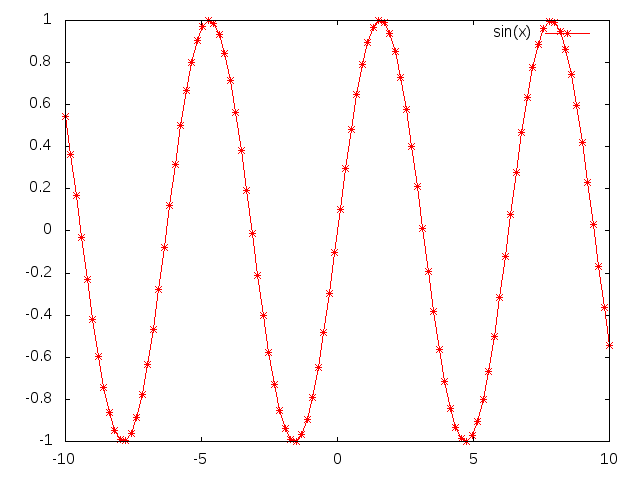
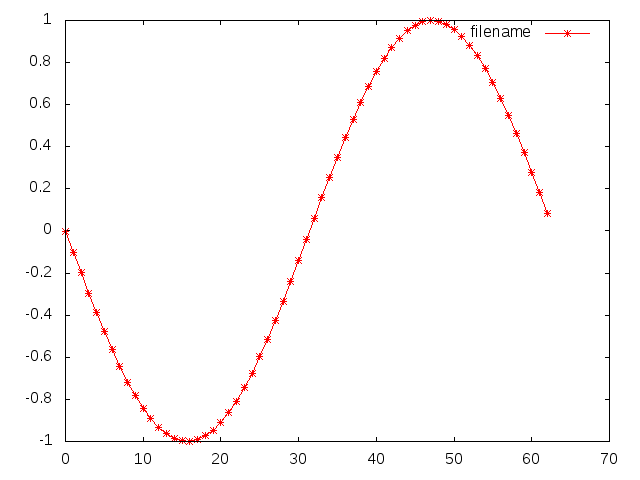
First two sineplottings

diff --git a/index.php b/index.php
@@ -6,6 +6,7 @@ if (!isset($_SESSION)) {
     }
 }
 require_once 'logic.php';
+require 'sin.php';
 header("Content-type: text/html\n\n");
 ?>
 
@@ -19,12 +20,21 @@ header("Content-type: text/html\n\n");
         <h1>
             Calculator!
         </h1>
+        <p>Basic operands +,-,*,/ are supported. <br>
+            Equations in the form 'number-operand-number+operand-number....' <br>
+            No actual calculation order is supported ergo the operations are count from left to right. <br>
+            No error checking for the input. You are on you own.</p>
         <form method="GET" name="form">
             <input type="text" id="arg1">
             <input type="button" id="go" value="Submit"></input>
         </form>
-        <p id="test2"><p>
+        <input type="button" id="sin" value="sin(x) (Serverside)"/>
+        <input type="button" id="sinloc" value="sin(x) (Clientside)"/><br>
+        <input type="button" id="sinmixed" value="sin(x) (Mixed)"/><br>
+        <img src="" id="img">
+        <canvas id="myCanvas" width="360" height="360" style="border:1px solid #d3d3d3;" hidden="true"></canvas>
         <p id="test"><p>
+
             <script>
                 $("#go").click(function () {
                     $("#test").text($("#arg1").val());
@@ -38,7 +48,9 @@ header("Content-type: text/html\n\n");
                     });
                     while (stack.length > 1) {
                         console.log(stack);
-                        var arg1 = stack.pop(); var op = stack.pop(); var arg2 = stack.pop();
+                        var arg1 = stack.pop();
+                        var op = stack.pop();
+                        var arg2 = stack.pop();
                         $.ajax({
                             type: "GET",
                             async: false,
@@ -50,7 +62,7 @@ header("Content-type: text/html\n\n");
                             complete: function (response) {
                                 stack.push(response.responseText);
                                 $('#test').html(response.responseText);
-                                $('#history').append("" + arg1 + " " + op + " " + arg2 + "=" +  response.responseText + "<br>");
+                                $('#history').append("" + arg1 + " " + op + " " + arg2 + "=" + response.responseText + "<br>");
                             },
                             error: function () {
                                 $('#test').html('Bummer: there was an error!');
@@ -60,6 +72,73 @@ header("Content-type: text/html\n\n");
                 });
             </script>
 
+            <script>
+                $("#sin").click(function () {
+                    $.ajax({
+                        type: "GET",
+                        async: false,
+                        url: 'sin.php',
+                        data: {sin: 'set'},
+                        complete: function (response) {
+                            $("#img").attr("src", "output.png");
+                        },
+                        error: function () {
+                            $('#test').html('Bummer: there was an error!');
+                        }
+
+                    })
+                });
+            </script>
+
+            <script>
+                $("#sinmixed").click(function () {
+                    $("#myCanvas").attr('hidden', false);
+                    var canvas = document.getElementById("myCanvas");
+                    var ctx = canvas.getContext("2d");
+                    ctx.moveTo(0, 180);
+                    ctx.lineTo(360, 180);
+                    ctx.moveTo(180, 0);
+                    ctx.lineTo(180, 360);
+                    ctx.stroke();
+
+                    var x = 0, y = 180;
+                    var mover = -Math.PI;
+                    while (mover <= Math.PI) {
+                        ctx.moveTo(x, y);
+                        y = 180 - Math.sin(mover) * 120;
+                        x += 5.7;
+                        ctx.lineTo(x, y);
+                        ctx.stroke();
+                        mover += 0.1;
+                    }
+                    ;
+                });
+            </script>
+
+            <script>
+                $("#sinmixed").click(function () {
+                    $("#myCanvas").attr('hidden', false);
+                    var canvas = document.getElementById("myCanvas");
+                    var ctx = canvas.getContext("2d");
+                    ctx.moveTo(0, 180);
+                    ctx.lineTo(360, 180);
+                    ctx.moveTo(180, 0);
+                    ctx.lineTo(180, 360);
+                    ctx.stroke();
+
+                    var x = 0, y = 180;
+                    var mover = -Math.PI;
+                    while (mover <= Math.PI) {
+                        ctx.moveTo(x, y);
+                        y = 180 - Math.sin(mover) * 120;
+                        x += 5.7;
+                        ctx.lineTo(x, y);
+                        ctx.stroke();
+                        mover += 0.1;
+                    }
+                    ;
+                });
+            </script>
 
 
         <h2>Equation history</h2>

diff --git a/sin.php b/sin.php
@@ -1,18 +1,14 @@
 <?php
+exec('rm testfile.txt');
 $x = -pi();
 $arr = array();
 while ($x <= pi()) {
-    $arr[count($arr)] = sin(deg2rad($x));
+    $arr[count($arr)] = sin($x);
     $x += 0.1;
     }
     foreach($arr as $value) {
-      echo $value;
-      echo "\n";
+        file_put_contents("testfile.txt", $value, FILE_APPEND);
+        file_put_contents("testfile.txt", "\n", FILE_APPEND);
     };
-
-/* 
- * To change this license header, choose License Headers in Project Properties.
- * To change this template file, choose Tools | Templates
- * and open the template in the editor.
- */
-
+    exec('gnuplot -e "filename=\'testfile.txt\'" foo.plg');
+    exec('chmod a+r output.png');
